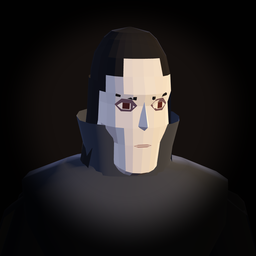
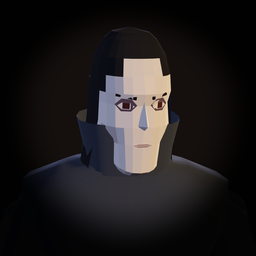
fix: relight the portraits so white cloth keeps its modelling
The warm key burnt out Álvar's habit, Zahra's veil, the helmets and
Malakor's lit cheek. The key is lower, the fill and ambient a little
lower too so the faces keep their shape, and all eight portraits and
the title's Álvar are rendered again. The tool's header and the readme
now say the title's Álvar is a second, shifted render and that the
images are imported after rendering.

Changed region(s): [[0.4688, 0.2188, 0.6875, 0.6875], [0.4375, 0.4375, 0.4688, 0.5]]

diff --git a/README.md b/README.md
@@ -93,7 +93,10 @@ Haven in `assets/textures/` (see `CREDITS.md`), imported with mipmaps.
 The portraits (`assets/portraits/`) are rendered from the dressed figures by
 `godot --path . -s tools/render_portraits.gd` (it needs a window): each character's head and
 shoulders, faced and clothed as in the game, in a three-quarter view under one warm side light, with
-what it holds in its hands left out of frame; the title's Álvar is the same picture drawn larger. The interface's typefaces and
+what it holds in its hands left out of frame. The title's Álvar is a second render of him, larger and
+shifted towards the left of its picture so his face stays clear of the title's words. After rendering,
+`godot --headless --path . --import` brings the new images into the import cache, which the game and
+the tests read. The interface's typefaces and
 panel frames (`assets/ui/`) are made by `tools/make_ui.py`; its docstring has the command. Both write
 the same bytes on every run. These small interface images keep Godot's lossless 2D import: they are
 drawn at or near their own size in the interface, where block compression would smear the thin
